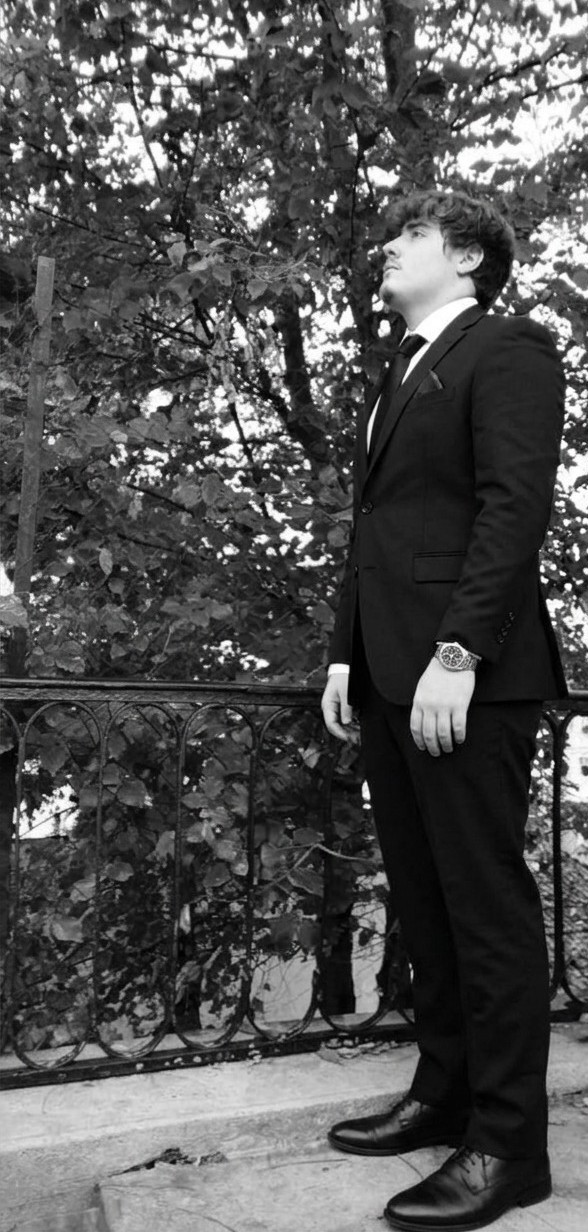
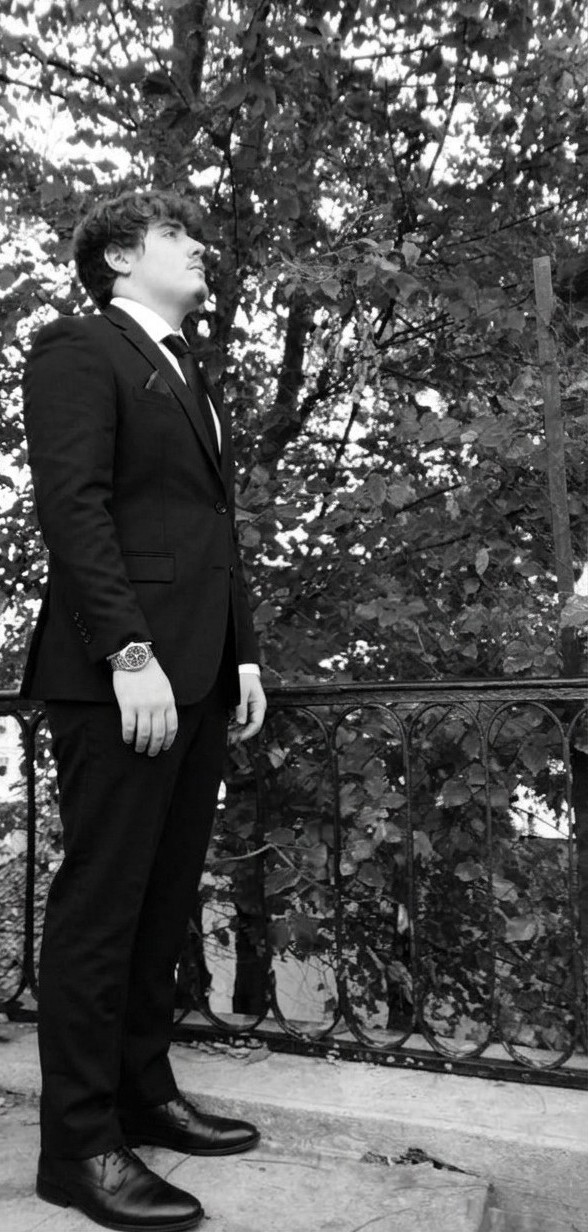
Accueil : photo à gauche dans le sens d'origine, texte à sa droite
Claude-Session: https://claude.ai/code/session_01A1iYBseabEpLjpgmcL58nP

diff --git a/style.css b/style.css
@@ -91,18 +91,21 @@ main { max-width: var(--maxw); margin: 0 auto; padding: 0 16px; }
   padding: 80px 48px 80px var(--gutter);
   background: var(--bg);
 }
-/* photo de Valentin : en entier (hauteur du bloc), calée à droite, fondu vers la gauche */
+/* photo de Valentin : en entier (hauteur du bloc), calée à GAUCHE, fondu vers la droite ;
+   le texte est poussé à droite de la photo */
 .hero-photo {
-  position: absolute; top: 0; right: 0; z-index: -2;
-  height: 100%; width: auto; max-width: 70%; object-fit: cover; object-position: center top;
+  position: absolute; top: 0; left: 0; z-index: -2;
+  height: 100%; width: auto; max-width: 60%; object-fit: cover; object-position: left top;
   filter: grayscale(1);
-  -webkit-mask-image: linear-gradient(90deg, transparent 0%, #000 45%);
-  mask-image: linear-gradient(90deg, transparent 0%, #000 45%);
+  -webkit-mask-image: linear-gradient(270deg, transparent 0%, #000 45%);
+  mask-image: linear-gradient(270deg, transparent 0%, #000 45%);
 }
+.hero-left { justify-content: flex-end; }
+.hero-left .hero-text { max-width: 30rem; }
 /* voile sombre pour garder le nom lisible par-dessus la photo */
 .hero-left::after {
   content: ""; position: absolute; inset: 0; z-index: -1;
-  background: linear-gradient(90deg, rgba(12,12,13,0.6) 0%, rgba(12,12,13,0.35) 50%, rgba(12,12,13,0.1) 100%);
+  background: linear-gradient(270deg, rgba(12,12,13,0.6) 0%, rgba(12,12,13,0.35) 50%, rgba(12,12,13,0.1) 100%);
 }
 .hero-right {
   justify-content: center;
@@ -293,6 +296,9 @@ main { max-width: var(--maxw); margin: 0 auto; padding: 0 16px; }
 @media (max-width: 820px) {
   .hero { grid-template-columns: 1fr; min-height: auto; }
   .hero-left { padding: 64px 16px; }
+  /* téléphone : le texte prend toute la largeur → photo atténuée en fond */
+  .hero-photo { max-width: 75%; opacity: 0.35; }
+  .hero-left { justify-content: flex-start; }
   .hero-right { padding: 40px 16px; }
   .about-grid { grid-template-columns: 1fr; gap: 28px; }
   .about-photo { max-height: 360px; }

diff --git a/CLAUDE.md b/CLAUDE.md
@@ -20,7 +20,7 @@
 - Accueil scindé en deux (seulement l'accueil, le reste du site reste noir uni) :
   gauche = nom + photo de Valentin (assets/photo.jpg), droite = image ingénierie santé / robots (assets/fond-sante.jpg) + fiche résumé (rectangle simple, angles droits, semi-transparent + flou, libellés en gras avec majuscule ; PAS de barre façon fenêtre Mac).
   Les deux photos passent en noir et blanc via CSS (filter: grayscale). Proportions : --left / --right dans .hero.
-- Photo de Valentin (costume, N&B) : assets/photo.jpg = version RETOURNÉE en miroir (pour qu'il regarde vers son nom) et recadrée à droite (pour le décaler loin du texte) ; assets/photo-original.jpg = sens d'origine. Affichée via <img class="hero-photo"> calée à droite du bloc gauche, hauteur 100 %, fondu vers la gauche (mask-image). Ombre légère sous le texte pour la lisibilité.
+- Photo de Valentin (costume, N&B) : assets/photo.jpg = sens d'ORIGINE, recadré à gauche ; calée à GAUCHE du bloc gauche (il regarde vers son nom), fondu vers la droite ; le texte est poussé à droite de la photo. Sur téléphone : photo atténuée (opacity .35). assets/photo-original.jpg = photo complète.
 - Trait d'ECG : essayé puis REFUSÉ par Valentin.
 - Image droite actuelle : bras robotique (Niryo One), fournie par Valentin, 600x600 (un peu basse résolution). Origine/droits à vérifier.
 - Images "code" (fournies par Valentin) : assets/code-main.jpg à côté du texte À propos, assets/code-ecrans.jpg en fond de la carte Contact (N&B + voile sombre).
